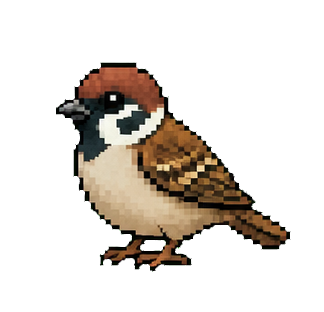
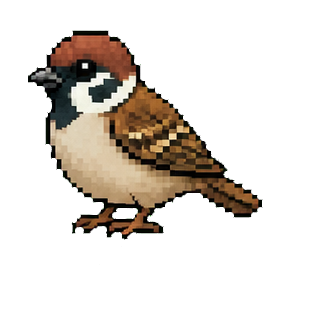
前端提供了删除鸟点的方式

Changed region(s): [[0.0617, 0.0865, 0.8951, 0.8654]]

diff --git a/frontend/src/components/RecordDetailDrawer.tsx b/frontend/src/components/RecordDetailDrawer.tsx
@@ -1,3 +1,5 @@
+import { Trash2 } from 'lucide-react';
+import { useEffect, useState } from 'react';
 import { resolveAssetUrl } from '../api/client';
 import type { RecordDetail } from '../types/models';
 import DrawerShell from './DrawerShell';
@@ -14,15 +16,34 @@ function formatTime(value: string) {
 function RecordDetailDrawer({
   record,
   loading,
+  canDelete,
+  deleting,
   onClose,
+  onDelete,
 }: {
   record: RecordDetail | null;
   loading: boolean;
+  canDelete: boolean;
+  deleting: boolean;
   onClose: () => void;
+  onDelete: (recordId: number) => void;
 }) {
+  const [confirmingDelete, setConfirmingDelete] = useState(false);
   const imageUrl = resolveAssetUrl(record?.attachments[0]?.file_url);
   const confidence = record?.ai_candidates?.[0]?.confidence;
 
+  useEffect(() => {
+    setConfirmingDelete(false);
+  }, [record?.id]);
+
+  function handleDeleteClick() {
+    if (!record || deleting) return;
+    if (!confirmingDelete) {
+      setConfirmingDelete(true);
+      return;
+    }
+    onDelete(record.id);
+  }
 
   return (
     <DrawerShell open={loading || Boolean(record)} title="观鸟记录" onClose={onClose}>
@@ -49,6 +70,15 @@ function RecordDetailDrawer({
             </div>
           )}
           <p className="detail-description">{record.description || '这条记录还没有备注。'}</p>
+          {canDelete && (
+            <div className="detail-danger-zone">
+              {confirmingDelete && <p>再次点击删除，这条鸟点会从地图和记录里移除。</p>}
+              <button className="settings-action danger" type="button" onClick={handleDeleteClick} disabled={deleting}>
+                <Trash2 size={18} />
+                <span>{deleting ? '删除中...' : confirmingDelete ? '确认删除鸟点' : '删除鸟点'}</span>
+              </button>
+            </div>
+          )}
         </article>
       )}
     </DrawerShell>

diff --git a/frontend/src/components/AppShell.tsx b/frontend/src/components/AppShell.tsx
@@ -114,6 +114,8 @@ function AppShell() {
   const [pendingLocation, setPendingLocation] = useState<BirdPointLocation | null>(null);
   const [detailRecord, setDetailRecord] = useState<RecordDetail | null>(null);
   const [detailStatus, setDetailStatus] = useState<'idle' | 'loading' | 'error'>('idle');
+  const [deletingRecordId, setDeletingRecordId] = useState<number | null>(null);
+  const [deletedRecordId, setDeletedRecordId] = useState<number | null>(null);
   const [notice, setNotice] = useState<string | null>(null);
   const [searchQuery, setSearchQuery] = useState('');
   const [recordFilter, setRecordFilter] = useState<RecordFilter>({ dateRange: 'all' });
@@ -303,6 +305,26 @@ function AppShell() {
     showNotice('记录成功，新的鸟类点位已加入地图');
   }
 
+  async function handleDeleteRecord(recordId: number) {
+    if (!auth.token) {
+      setLoginOpen(true);
+      return;
+    }
+
+    setDeletingRecordId(recordId);
+    try {
+      await api.deleteRecord(recordId, auth.token);
+      setDetailRecord(null);
+      setDeletedRecordId(recordId);
+      await refreshMapRecords();
+      showNotice('鸟点已删除');
+    } catch (error) {
+      showNotice(error instanceof Error ? error.message : '删除鸟点失败');
+    } finally {
+      setDeletingRecordId(null);
+    }
+  }
+
   const content = useMemo(() => {
     if (activeTab === 'map') {
       return (
@@ -336,12 +358,14 @@ function AppShell() {
         onSettingsRequest={() => setSettingsOpen(true)}
         onProfileUpdated={(user) => setAuth((current) => ({ ...current, user }))}
         onOpenRecord={openRecordDetail}
+        deletedRecordId={deletedRecordId}
       />
     );
   }, [
     activeTab,
     auth.token,
     auth.user,
+    deletedRecordId,
     filteredRecords,
     isLoggedIn,
     normalizedSearch,
@@ -443,7 +467,10 @@ function AppShell() {
       <RecordDetailDrawer
         record={detailRecord}
         loading={detailStatus === 'loading'}
+        canDelete={Boolean(auth.user && detailRecord && auth.user.id === detailRecord.author.id)}
+        deleting={Boolean(detailRecord && deletingRecordId === detailRecord.id)}
         onClose={() => setDetailRecord(null)}
+        onDelete={handleDeleteRecord}
       />
       <CreateRecordDrawer
         open={createOpen}

diff --git a/frontend/src/components/AppShell.css b/frontend/src/components/AppShell.css
@@ -647,6 +647,28 @@
   background: #7dbb51;
 }
 
+.detail-danger-zone {
+  display: grid;
+  gap: 8px;
+  margin-top: 4px;
+  padding-top: 12px;
+  border-top: 3px dashed #d49a62;
+}
+
+.detail-danger-zone p {
+  margin: 0;
+  color: #9a3d22;
+  font-weight: 900;
+  line-height: 1.45;
+}
+
+.settings-action:disabled,
+.primary-action:disabled {
+  cursor: wait;
+  opacity: 0.7;
+  transform: none;
+}
+
 .toast-message {
   position: absolute;
   z-index: 60;

diff --git a/frontend/src/pages/ProfileView.tsx b/frontend/src/pages/ProfileView.tsx
@@ -14,6 +14,7 @@ function ProfileView({
   onSettingsRequest,
   onProfileUpdated,
   onOpenRecord,
+  deletedRecordId,
 }: {
   token: string | null;
   user: User | null;
@@ -24,6 +25,7 @@ function ProfileView({
   onSettingsRequest: () => void;
   onProfileUpdated: (user: User) => void;
   onOpenRecord: (recordId: number) => void;
+  deletedRecordId: number | null;
 }) {
   const [records, setRecords] = useState<MyRecord[]>([]);
   const [loading, setLoading] = useState(false);
@@ -49,6 +51,11 @@ function ProfileView({
   useEffect(() => {
     setVisibleCount(pageSize);
   }, [records, searchQuery]);
+
+  useEffect(() => {
+    if (!deletedRecordId) return;
+    setRecords((current) => current.filter((record) => record.id !== deletedRecordId));
+  }, [deletedRecordId]);
 
   useEffect(() => {
     setNicknameDraft(user?.nickname ?? '');

diff --git a/frontend/src/api/client.ts b/frontend/src/api/client.ts
@@ -92,6 +92,11 @@ export const api = {
   getRecordOptions: () => request<PublicRecordOptions>('/api/records/options'),
   getRecordDetail: (id: number, token?: string | null) =>
     request<RecordDetail>(`/api/records/${id}`, { token }),
+  deleteRecord: (id: number, token: string) =>
+    request<{ message: string; id: number; deleted_files: string[] }>(`/api/records/${id}`, {
+      method: 'DELETE',
+      token,
+    }),
   listMyRecords: (token: string) => request<MyRecord[]>('/api/records/mine', { token }),
   identifyBird: (image: File, token?: string | null) => {
     const form = new FormData();

diff --git a/backend/src/modules/records.py b/backend/src/modules/records.py
@@ -144,15 +144,14 @@ def get_record_detail(
 
 
 @router.delete("/{record_id}")
-def delete_record_endpoint(record_id: int) -> dict:
+def delete_record_endpoint(record_id: int, current_user: dict = Depends(get_current_user)) -> dict:
     record = get_record_by_id(record_id)
     if not record:
         raise HTTPException(status_code=404, detail="Record not found")
+    if record["user_id"] != current_user["id"]:
+        raise HTTPException(status_code=403, detail="No permission to delete this record")
 
     file_urls = delete_record_by_id(record_id)
-    if not file_urls:
-        raise HTTPException(status_code=500, detail="Failed to delete record")
-    
     for url in file_urls:
         try:
             delete_file_by_url(url)